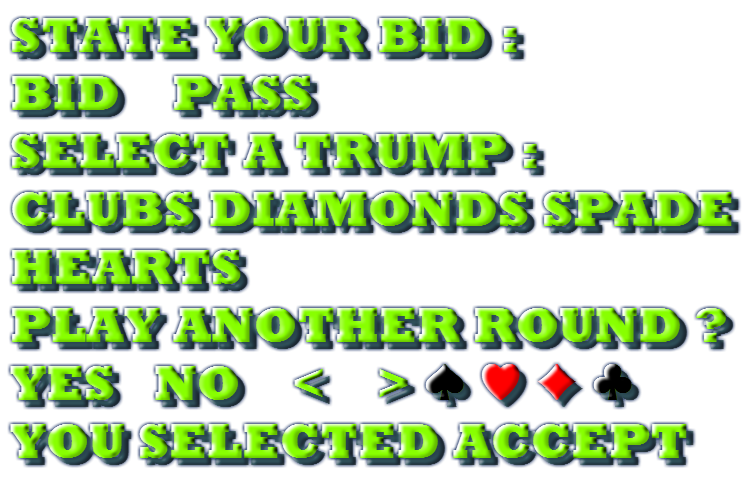
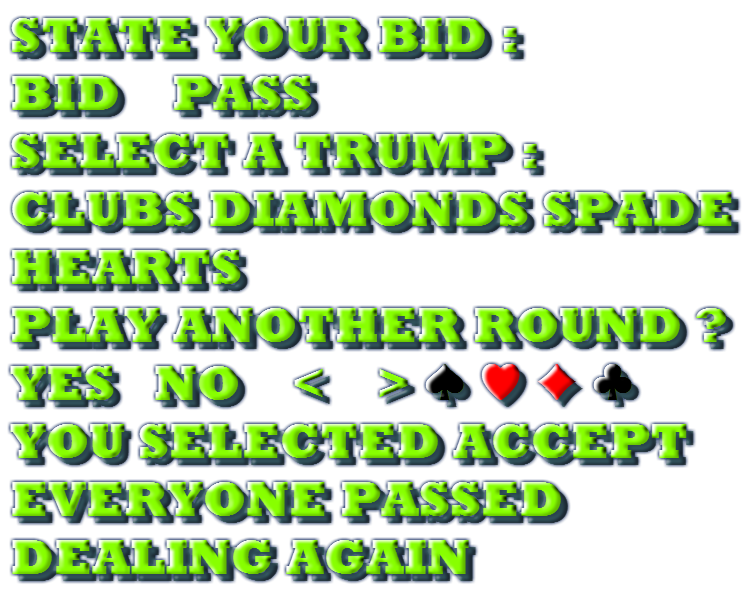
Modified bidding to incorporate redealing of cards in case all the players have passed.

diff --git a/src/display_engine/bidding_module.py b/src/display_engine/bidding_module.py
@@ -35,7 +35,12 @@ def bidding(players):
             pygame.time.delay(time_delay)
             pygame.display.update(screen.blit(screen_backup, (0, 0)))
         players = [player for player, flag in zip(players, passed) if not flag]
-    trump = max_bidder.select_trump()
+    if max_bid is 15:
+        # If all the players pass
+        max_bid, trump, max_bidder = False, False, False
+        restart_deal_display()
+    else:
+        trump = max_bidder.select_trump()
     return max_bid, trump, max_bidder
 
 
@@ -175,15 +180,28 @@ def select_trump_by_user(player):
                             pygame.display.update(screen.blit(screen_backup, (0, 0)))
                             rect = message_2.get_rect()
                             rect.midbottom = screen.get_rect().center
-                            screen.blit(message_2, rect)
                             rect_suit = suits[trump].get_rect()
                             rect_suit.midtop = rect.midbottom
-                            screen.blit(suits[trump], rect_suit)
                             rect_accept = accept.get_rect()
                             rect_accept.midtop = rect_suit.midbottom
-                            screen.blit(accept, rect_accept)
-                            pygame.display.update((rect, rect_suit, rect_accept))
+                            pygame.display.update((screen.blit(message_2, rect), screen.blit(suits[trump], rect_suit), screen.blit(accept, rect_accept)))
             elif event.type is pygame.QUIT:
                 sys.exit()
     pygame.display.update(screen.blit(screen_backup, (0, 0)))
     return trump
+
+def restart_deal_display():
+    '''Called by bidding(max_bid) if all the players have passed
+       Informs the players that the cards are going to be dealt again.'''
+    screen = pygame.display.get_surface()
+    message_src = display_engine.methods.load_image('messages.png', ['images'], 1)
+    message = pygame.Surface((570, 55), pygame.SRCALPHA, 32).convert_alpha()
+    message.blit(message_src, (0, 0), (8, 473, 570, 55))
+    trail = pygame.Surface((484, 55), pygame.SRCALPHA, 32)
+    trail.blit(message_src, (0, 0), (8, 533, 484, 55))
+    rect = message.get_rect()
+    rect.center = screen.get_rect().center
+    rect_trail = trail.get_rect()
+    rect_trail.topleft = rect.bottomleft
+    pygame.display.update((screen.blit(message, rect), screen.blit(trail, rect_trail)))
+    pygame.time.delay(1500)

diff --git a/src/Classes/overseer.py b/src/Classes/overseer.py
@@ -56,7 +56,13 @@ class overseer():
             player.hand = [self.cards.pop(0) for _ in xrange(4)]
             player.sort_hand()
             draw_player(player, self.images['screen'], self.images['background'], time_delay = 50)
-        self.bidding()
+        if not self.bidding():
+            # When all the players pass, cards are dealt again from the start
+            for player in self.players:
+                self.cards += player.hand
+                player.hand[:] = []
+                self.status = 'deal'
+                return
         for player in self.players:
             player.hand += [self.cards.pop(0) for _ in xrange(4)]
             player.sort_hand()
@@ -65,6 +71,7 @@ class overseer():
     def bidding(self):
         '''Sets the bid, highest bidder and trump variables'''
         self.bid, self.trump, self.max_bidder = bidding_module.bidding(self.players)
+        return self.bid and self.trump and self.max_bidder  # Results in False when all are false
     
     def init_players(self):
         '''Creates list of Players'''
@@ -105,8 +112,8 @@ class overseer():
                 self.status = 'deal'
             elif self.status is 'deal':
                 self.render()
-                self.deal_cards()
                 self.status = 'play'
+                self.deal_cards()
             elif self.status is 'play':
                 self.render()
                 self.status = 'play' if self.play_one_turn() else 'finish round'

diff --git a/src/main.py b/src/main.py
@@ -13,4 +13,3 @@ from Classes.overseer import overseer
 if __name__ == '__main__':
     game = overseer()
     game.run()
-    
